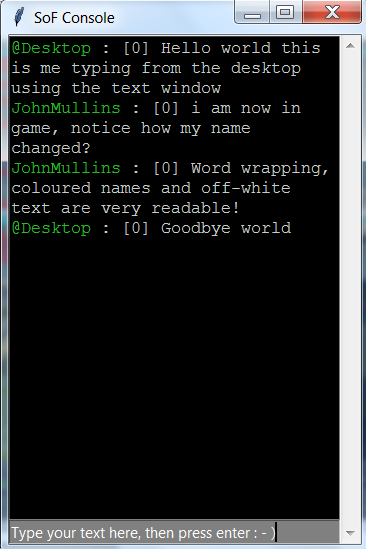
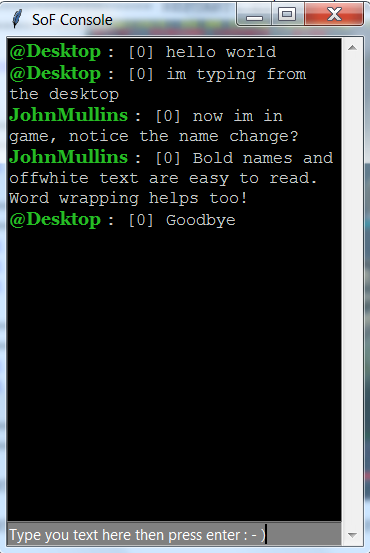
Add files via upload
Now with bold names as suggested by d3nd3

Changed region(s): [[0.0, 0.0, 1.0, 1.0], [0.6612, 0.4026, 0.8115, 0.4335]]

diff --git a/im.py b/im.py
@@ -109,8 +109,8 @@ def checkUpdateLoop():
 							#reset string
 							insertMe = " "
 					insertMe += "\n"
-					messages.tag_config("tag2", foreground=_from_rgb((204,204,204)))
-					messages.insert(END, insertMe, "tag2")
+					messages.tag_config("text", foreground=_from_rgb((204,204,204)))
+					messages.insert(END, insertMe, "text")
 					#print(mySlot)
 					if mySlot not in x:
 						#if its not our own input, no beep
@@ -133,8 +133,9 @@ def _from_rgb(rgb):
 def setNameColour(x):
 	m = re.split(": \[\d{1,2}\]",x)
 	name = m[0]
-	messages.tag_config("tag1", foreground=_from_rgb((37,188,36)))
-	messages.insert(END, name, "tag1")
+	messages.tag_config("name", foreground=_from_rgb((37,188,36)))
+	messages.tag_config("name",font=("Georgia", "11", "bold"))
+	messages.insert(END, name, "name")
 	#client slot important
 	lname = len(m[0])
 	return x[lname:]
